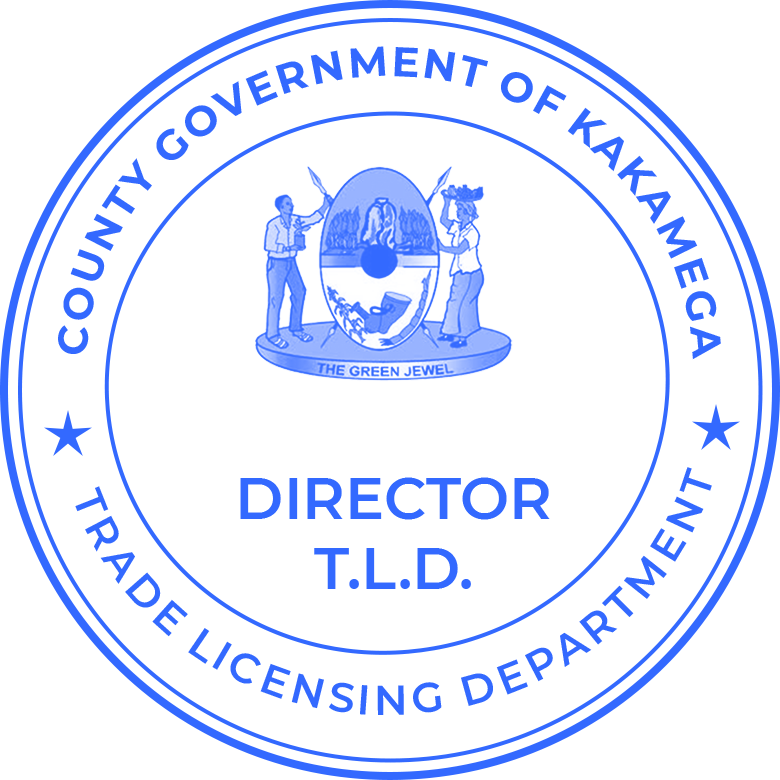
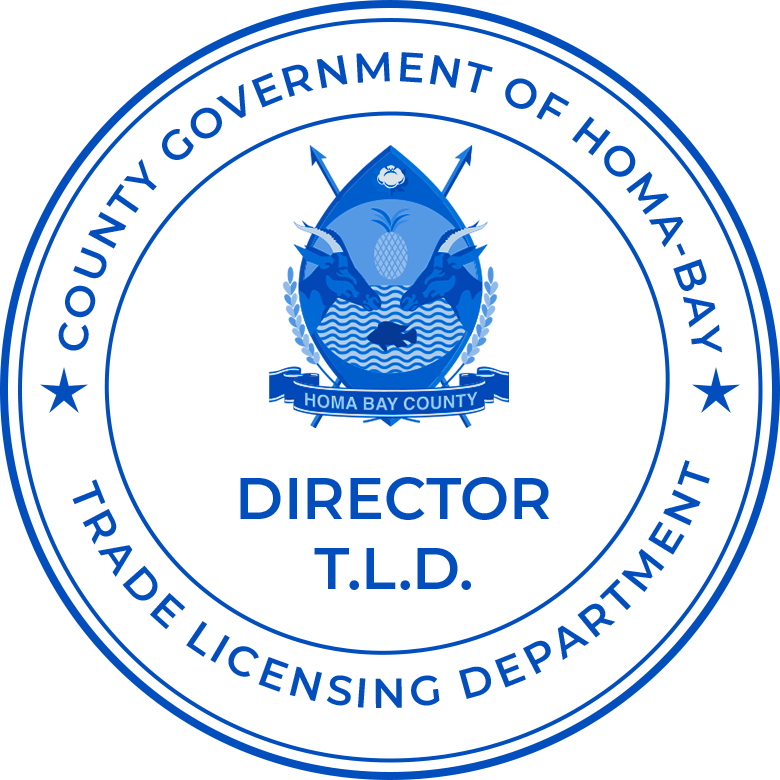
kelvin: changes on the business permit

diff --git a/PrintDocs/Trade-Permit/homabya trade permit.html b/PrintDocs/Trade-Permit/homabya trade permit.html
@@ -3,7 +3,7 @@
 
 <head>
     <meta charset="utf-8">
-    <title class="">NRK Trade License</title>
+    <title class="">Homa Bay County Trade Permit</title>
     <link href="https://fonts.googleapis.com/css?family=Aldrich|Fira+Sans:200,300,400,500,700,800,900|Norican&display=swap&subset=cyrillic" rel="stylesheet">
     <link href="https://fonts.googleapis.com/css?family=Libre+Baskerville:400,400i,700|Open+Sans:300,400,600,700&display=swap" rel="stylesheet">
     <link rel="preconnect" href="https://fonts.gstatic.com">
@@ -911,11 +911,11 @@
                     <div class="row">
 
                         <!--				logo container-->
-                        <div class="col-12 d-flex title-header green position-absolute" style="justify-content: space-around; align-items: end; text-align: left;">
+                        <div class="col-12 d-flex title-header green position-absolute" style="justify-content: space-around;  text-align: left;">
 
                             <img src="assets/kakamega-logo.png" class="logo">
                             <div class="title" style="margin-top: 2rem;">
-                                <h1 class="uppercase">County Government Of Kakamega</h1>
+                                <h1 class="uppercase">County Government Of Homa-Bay</h1>
                                 <h3 class="uppercase">SINGLE BUSINESS PERMIT</h3>
                             </div>
                         </div>
@@ -949,7 +949,7 @@
             <section class="container p-3 m-0">
                 <div class="row">
                     <div class="col-12 ">
-                        <p class="text-left"><span class=" green"><span> County Government Of Kakamega grants this business permit to</span></P>
+                        <p class="text-left"><span class=" green"><span> County Government Of Homa-Bay grants this business permit to</span></P>
                     </div>
                     <div class="col-10 pr-0">
                         <table class="table table-bordered mb-0">
@@ -1032,11 +1032,11 @@
                                     <td colspan="3" class="green">Business under this permit shall be conducted at the address as indicated below</td>
                                 </tr>
                                 <tr>
-                                    <td colspan="2"><span class="green">P.O. Box : </span><span class="libre-bold">541 Nairobi</span></td>
+                                    <td colspan="2"><span class="green">P.O. Box : </span><span class="libre-bold">541 Homa-Bay</span></td>
                                     <td>Plot No. : <span class="libre-bold title-font">12202/1250</span></td>
                                 </tr>
                                 <tr>
-                                    <td colspan="3"><span class="green">Road Street : </span><span class="title-font" style="font-weight:400;font-family:'Pridi', serif;">Along the bungma road</span></td>
+                                    <td colspan="3"><span class="green">Road/Street : </span><span class="title-font" style="font-weight:400;font-family:'Pridi', serif;">Rongo Road</span></td>
                                 </tr>
                                 <tr>
                                     <td><span class="green">Building : </span><span class="libre-bold">The Tower</span></td>
@@ -1100,7 +1100,7 @@
                             <div class="col-12" style="font-size: 12px; padding: 0px; margin: 0px;">
                                 <p class="red font-14 " style="font-weight: 500;">
                                     Notice: Granting this permit <strong>DOES NOT EXEMPT</strong> the business identified above from complying with current regulations on Health and safety as established by the Government of Kenya and the
-                                    <strong style="text-transform: uppercase;">County Government Of Kakamega</strong>
+                                    <strong style="text-transform: uppercase;">County Government Of Homabay</strong>
                                 </p>
                             </div>
                         </div>
@@ -1110,7 +1110,7 @@
                 </div>
             </section>
 
-            <img src="assets/nbk_logo.svg" alNBK Logo class="nbk" style="bottom: auto;">
+            <img src="assets/nbk_logo.svg" alNBK Logo class="nbk" style="bottom: auto; display: none;">
 
 
         </section>
